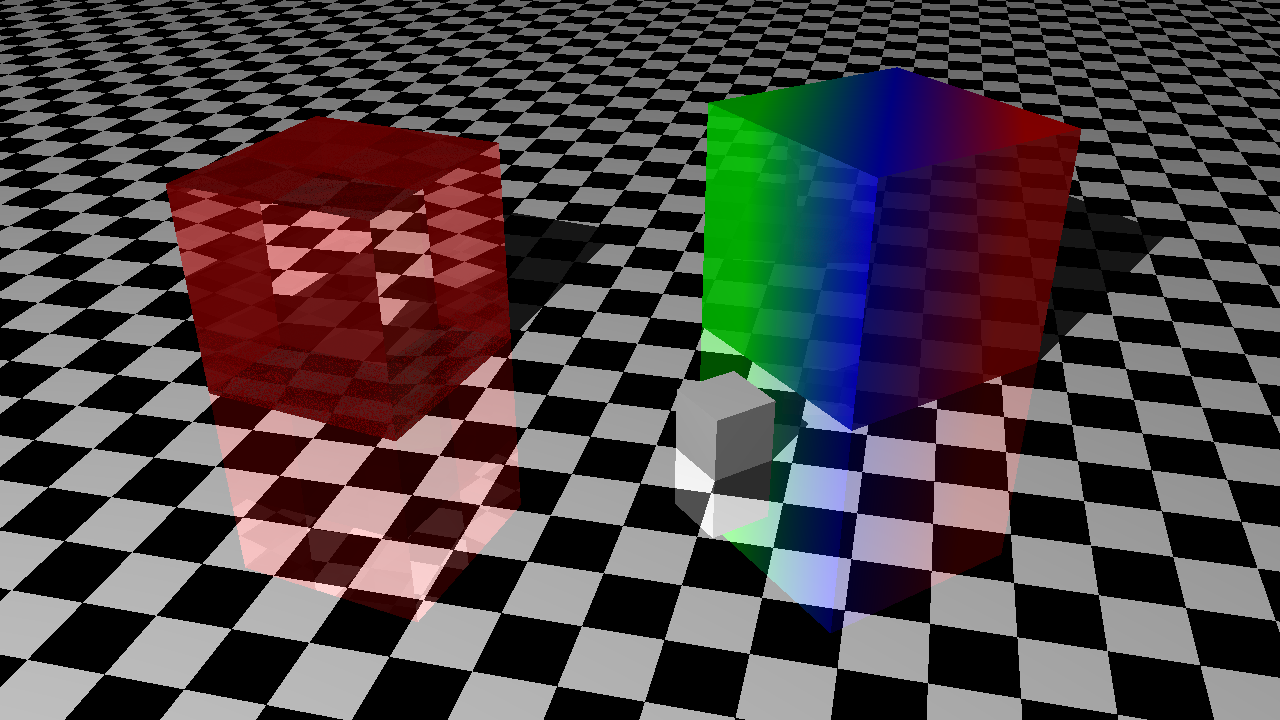
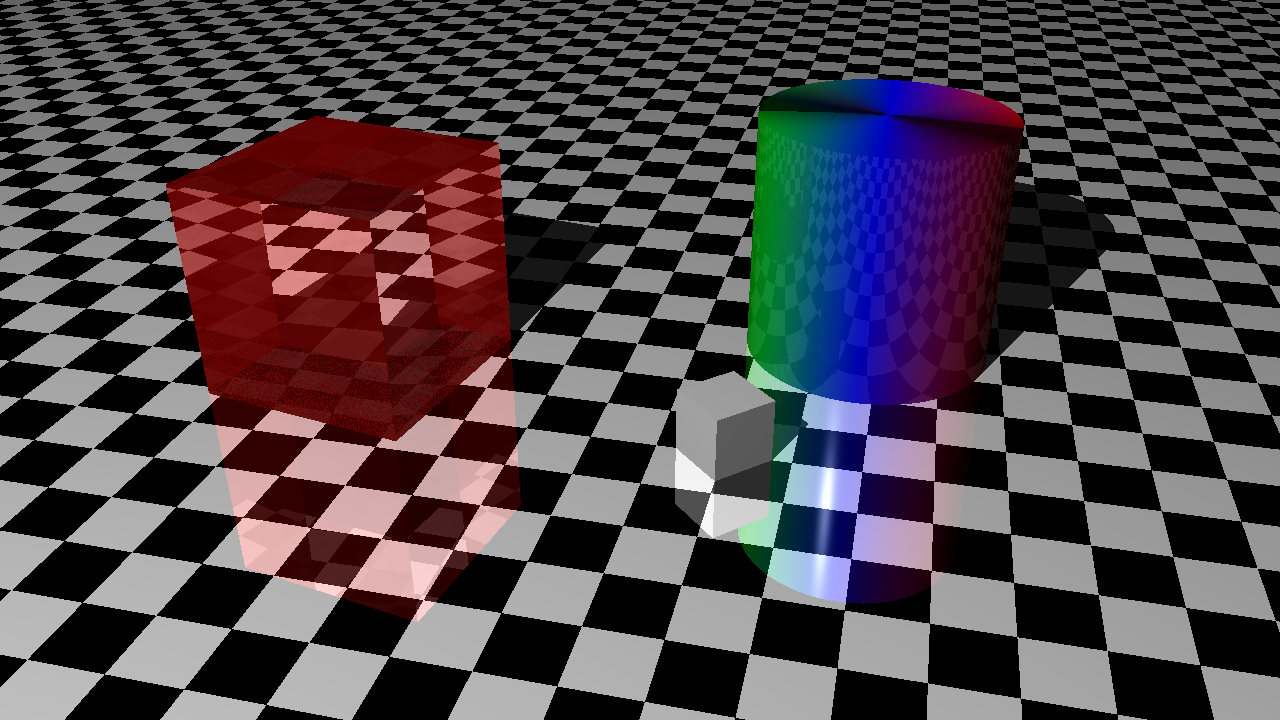
Chapter 13 - Cylinders - caps WIP

Changed region(s): [[0.5312, 0.0917, 0.9062, 0.8861], [0.5625, 0.7333, 0.5938, 0.7639]]

diff --git a/ray_tracer/src/primatives/intersections/cylinder.rs b/ray_tracer/src/primatives/intersections/cylinder.rs
@@ -5,12 +5,38 @@ use math::vector;
 
 pub struct Cylinder {}
 
+#[derive(Debug, PartialEq)]
+pub enum CylinderCapStyle {
+    Open,
+    Closed,
+}
+
 impl Cylinder {
-    pub(crate) fn intersect(ray: Ray) -> Vec<f32> {
+    pub(crate) fn intersect(ray: Ray, cylinder_cap_style: &CylinderCapStyle) -> Vec<f32> {
         let direction = vector!(ray.direction.x, 0., ray.direction.z);
+
+        let mut result = Vec::with_capacity(2);
+        match cylinder_cap_style {
+            CylinderCapStyle::Open => {}
+            CylinderCapStyle::Closed => {
+                // println!("{}", ray);
+                let t = (-1. - ray.origin.y) / ray.direction.y;
+                // println!("t{} {}", t, ray.position(t));
+                if Self::check_cap(&ray.position(t)) {
+                    // println!("CAP! -1 ");
+                    result.push(t);
+                }
+                let t = (1. - ray.origin.y) / ray.direction.y;
+                if Self::check_cap(&ray.position(t)) {
+                    // println!("CAP! 1");
+                    result.push(t);
+                }
+            }
+        }
+
         let a = direction.dot(&direction);
         if a == 0. {
-            return Default::default();
+            return result;
         }
 
         let cylinder_to_ray = vector!(ray.origin.x, 0., ray.origin.z);
@@ -19,18 +45,32 @@ impl Cylinder {
         let discriminant = b * b - 4. * a * c;
 
         if discriminant < 0. {
-            return Default::default();
+            return result;
         }
-        let mut result = Vec::with_capacity(2);
         let a2 = 2. * a;
         if discriminant == 0. {
+            // println!("wall! 1");
             result.push(-b / a2);
         } else {
             let discriminant_sqrt = discriminant.sqrt();
-            result.push((-b - discriminant_sqrt) / a2);
-            result.push((-b + discriminant_sqrt) / a2);
+            let t = (-b - discriminant_sqrt) / a2;
+            let position = ray.position(t);
+            if position.y.abs() < 1.{
+                // println!("wall! 2");
+                result.push(t);
+            }
+            let t = (-b + discriminant_sqrt) / a2;
+            let position = ray.position(t);
+            if position.y.abs() < 1.{
+                // println!("wall! 3");
+                result.push(t);
+            }
         }
         result
+    }
+
+    fn check_cap(point: &Point) -> bool {
+        point.x * point.x + point.z * point.z <= 1.
     }
 
     pub(crate) fn normal_at(object_point: Point) -> Vector {
@@ -49,7 +89,7 @@ mod cylinder_intersection_miss_tests {
             $(
             #[test]
             fn $name() {
-                let cylinder = Shape::new_cylinder();
+                let cylinder = Shape::new_open_cylinder();
                 let intersections = cylinder.intersect($ray);
                 assert_eq!(intersections.len(), 0);
             }
@@ -66,6 +106,7 @@ mod cylinder_intersection_miss_tests {
 
 #[cfg(test)]
 mod cylinder_intersection_hit_tests {
+    use math::matrix::matrix_4x4::Matrix4x4;
     use crate::intersection::Intersect;
     use crate::primatives::Shape;
     use crate::ray;
@@ -75,8 +116,10 @@ mod cylinder_intersection_hit_tests {
             $(
             #[test]
             fn $name() {
-                let cylinder = Shape::new_cylinder();
-                let intersections = cylinder.intersect($ray);
+                let cylinder = Shape::new_open_cylinder_transformed(
+                    Matrix4x4::scale(1., 8., 1.)
+                );
+                let intersections = cylinder.intersect($ray.normalize());
                 assert_eq!(intersections.iter().map(|a|a.t).collect::<Vec<f32>>(), $t);
             }
             )*
@@ -86,19 +129,17 @@ mod cylinder_intersection_hit_tests {
     hit!(
         tangential; ray!((1., 0., -5.),  (0., 0., 1.))  => vec!(5.)
         horizontal; ray!((0., 0., -5.),  (0., 0., 1.))  => vec!(4., 6.)
+        angled;     ray!((0.5, 0., -5.), (0.1, 1., 1.)) => vec!(6.808006, 7.0886984)
         inside;     ray!((0., 0., 0.5),  (0., 0., 1.))  => vec!(-1.5, 0.5)
         behind;     ray!((0., 0., 2.),   (0., 0., 1.))  => vec!(-3., -1.)
-        // we normalize the ray to match the book results
-        angled;     ray!((0.5, 0., -5.), (0.1, 1., 1.)).normalize() => vec!(6.808006, 7.0886984)
     );
 }
 
 #[cfg(test)]
 mod cylinder_normal_tests {
     use crate::primatives::Shape;
-    use math::matrix::matrix_4x4::Matrix4x4;
-    use math::{assert_vector, point, radians, vector};
-    use std::f32::consts::PI;
+
+    use math::{point, vector};
 
     macro_rules! normal {
         ($($name:ident; $point:expr => $expect:expr)*) => {
@@ -117,5 +158,75 @@ mod cylinder_normal_tests {
         b; point!(0, 5, -1) => vector!(0, 0, -1)
         c; point!(0, -2, 1) => vector!(0, 0, 1)
         d; point!(-1, 1, 0) => vector!(-1, 0, 0)
+    );
+}
+
+#[cfg(test)]
+mod cylinder_truncate_tests {
+    use super::*;
+    use crate::intersection::Intersect;
+    use crate::primatives::Shape;
+    use crate::ray;
+    use math::matrix::matrix_4x4::Matrix4x4;
+
+    macro_rules! truncate_hits {
+        ($($name:ident; $ray:expr => $expect:expr)*) => {
+            $(
+                #[test]
+                fn $name() {
+                    let cylinder = Shape::new_open_cylinder_transformed(
+                        Matrix4x4::translation(0., 1., 0.)
+                        .pre_scale(1., 0.5, 1.)
+                        .pre_translation(0., 1., 0.)
+                    );
+                    let intersections = cylinder.intersect($ray.normalize());
+                    assert_eq!($expect, intersections.len());
+                }
+            )*
+        };
+    }
+
+    truncate_hits!(
+        test_1; ray!((0., 1.5, 0.),  (0.1, 1., 0.))  => 0
+        test_2; ray!((0., 3., -5.),  (0., 0., 1.))  => 0
+        test_3; ray!((0., 0., -5.),  (0., 0., 1.))  => 0
+        test_4; ray!((0., 2., -5.),  (0., 0., 1.))  => 0
+        test_5; ray!((0., 1., -5.),  (0., 0., 1.))  => 0
+        test_6; ray!((0., 1.5, 0.),  (0., 0., 1.))  => 2
+    );
+}
+
+#[cfg(test)]
+mod cylinder_cap_intersection_tests {
+    use super::*;
+    use crate::intersection::Intersect;
+    use crate::primatives::Shape;
+    use crate::ray;
+    use math::matrix::matrix_4x4::Matrix4x4;
+
+    macro_rules! intersect_cap {
+        ($($name:ident; $ray:expr => $expect:expr)*) => {
+            $(
+                #[test]
+                fn $name() {
+                    // cylinder 1..2
+                    let cylinder = Shape::new_cylinder_transformed(
+                        Matrix4x4::translation(0., 1., 0.)
+                        .pre_scale(1., 0.5, 1.)
+                        .pre_translation(0., 1., 0.)
+                    );
+                    let intersections = cylinder.intersect($ray.normalize());
+                    assert_eq!($expect, intersections.len());
+                }
+            )*
+        };
+    }
+
+    intersect_cap!(
+        test_1; ray!((0., 3., 0.),  (0., -1., 0.)) => 2
+        test_2; ray!((0., 3., -2.),  (0., -1., 2.)) => 2
+        test_3; ray!((0., 4., -2.),  (0., -1., 1.)) => 2
+        test_4; ray!((0., 0., -2.),  (0., -1., 2.)) => 2
+        test_5; ray!((0., -1., -2.),  (0., 1., 1.)) => 2
     );
 }

diff --git a/ray_tracer/src/primatives/factories/cylinder.rs b/ray_tracer/src/primatives/factories/cylinder.rs
@@ -1,13 +1,41 @@
 use crate::primatives::Shape;
 use crate::primatives::surface::Surface::UnitCylinder;
 use math::matrix::matrix_4x4::Matrix4x4;
+use crate::primatives::intersections::CylinderCapStyle;
 
 impl Shape {
     pub fn new_cylinder_transformed(transform: Matrix4x4) -> Self {
-        Self::new(transform, UnitCylinder)
+        Self::new(transform, UnitCylinder(CylinderCapStyle::Closed))
+    }
+
+    pub fn new_open_cylinder_transformed(transform: Matrix4x4) -> Self {
+        Self::new(transform, UnitCylinder(CylinderCapStyle::Open))
     }
 
     pub fn new_cylinder() -> Self {
         Self::new_cylinder_transformed(Matrix4x4::identity())
     }
+
+    pub fn new_open_cylinder() -> Self {
+        Self::new_open_cylinder_transformed(Matrix4x4::identity())
+    }
+}
+
+#[cfg(test)]
+mod cylinder_factory_tests {
+    use super::*;
+
+    #[test]
+    fn cylinders_are_closed_by_default() {
+        assert_eq!(UnitCylinder(CylinderCapStyle::Closed), Shape::new_cylinder().surface);
+        assert_eq!(UnitCylinder(CylinderCapStyle::Closed), Shape::new_cylinder_transformed(Matrix4x4::identity()).surface);
+    }
+
+    #[test]
+    fn open_cylinder() {
+        assert_eq!(UnitCylinder(CylinderCapStyle::Open), Shape::new_open_cylinder().surface);
+        assert_eq!(UnitCylinder(CylinderCapStyle::Open), Shape::new_open_cylinder_transformed(Matrix4x4::identity()).surface);
+    }
+
+
 }

diff --git a/ray_tracer/src/primatives/surface.rs b/ray_tracer/src/primatives/surface.rs
@@ -1,4 +1,4 @@
-use crate::primatives::intersections::Plane;
+use crate::primatives::intersections::{CylinderCapStyle, Plane};
 use crate::primatives::intersections::Sphere;
 use crate::primatives::intersections::{Cube, Cylinder};
 use crate::rays::Ray;
@@ -17,7 +17,7 @@ pub(crate) enum Surface {
     PlaneXZ,
 
     /// A cylinder with center at origin and radius 1, infinite length
-    UnitCylinder,
+    UnitCylinder(CylinderCapStyle),
 }
 
 impl Surface {
@@ -26,7 +26,7 @@ impl Surface {
             Surface::UnitSphere => Sphere::intersect(ray),
             Surface::PlaneXZ => Plane::intersect(ray),
             Surface::UnitCube => Cube::intersect(ray),
-            Surface::UnitCylinder => Cylinder::intersect(ray),
+            Surface::UnitCylinder(style) => Cylinder::intersect(ray, style),
         }
     }
 
@@ -35,7 +35,7 @@ impl Surface {
             Surface::UnitSphere => Sphere::normal_at(object_point),
             Surface::PlaneXZ => Plane::normal_at(object_point),
             Surface::UnitCube => Cube::normal_at(object_point),
-            Surface::UnitCylinder => Cylinder::normal_at(object_point),
+            Surface::UnitCylinder(_) => Cylinder::normal_at(object_point),
         }
     }
 }

diff --git a/ray_tracer/src/world/shadows.rs b/ray_tracer/src/world/shadows.rs
@@ -11,7 +11,8 @@ impl World {
         self.lights
             .iter()
             .filter_map(|l| {
-                let intersections = self.intersect(ray!(point, l.position - point));
+                let intersections
+                    = self.intersect(ray!(point, l.position - point));
                 if let Some((hit, refractions)) = intersections.hit() {
                     if hit.t < 1. { None } else { Some(l) }
                 } else {

diff --git a/demo-lib/src/test_scenes/cubes.rs b/demo-lib/src/test_scenes/cubes.rs
@@ -48,7 +48,7 @@ impl TestScene for Cubes {
 
         world.add(cube);
 
-        let mut cube = Shape::new_cube_transformed(
+        let mut cube = Shape::new_cylinder_transformed(
             Matrix4x4::identity()
                 .pre_translation(-8., 4., -3.)
                 .pre_scale_all(4.)

diff --git a/ray_tracer/src/primatives/shape.rs b/ray_tracer/src/primatives/shape.rs
@@ -13,7 +13,7 @@ pub struct Shape {
     pub id: ShapeId,
     pub material: Material,
     pub(crate) transform: Transform,
-    surface: Surface,
+    pub(crate) surface: Surface,
 }
 
 impl Shape {

diff --git a/ray_tracer/src/primatives/intersections/mod.rs b/ray_tracer/src/primatives/intersections/mod.rs
@@ -5,5 +5,6 @@ mod sphere;
 
 pub use cube::Cube;
 pub use cylinder::Cylinder;
+pub use cylinder::CylinderCapStyle;
 pub use plane::Plane;
 pub use sphere::Sphere;
